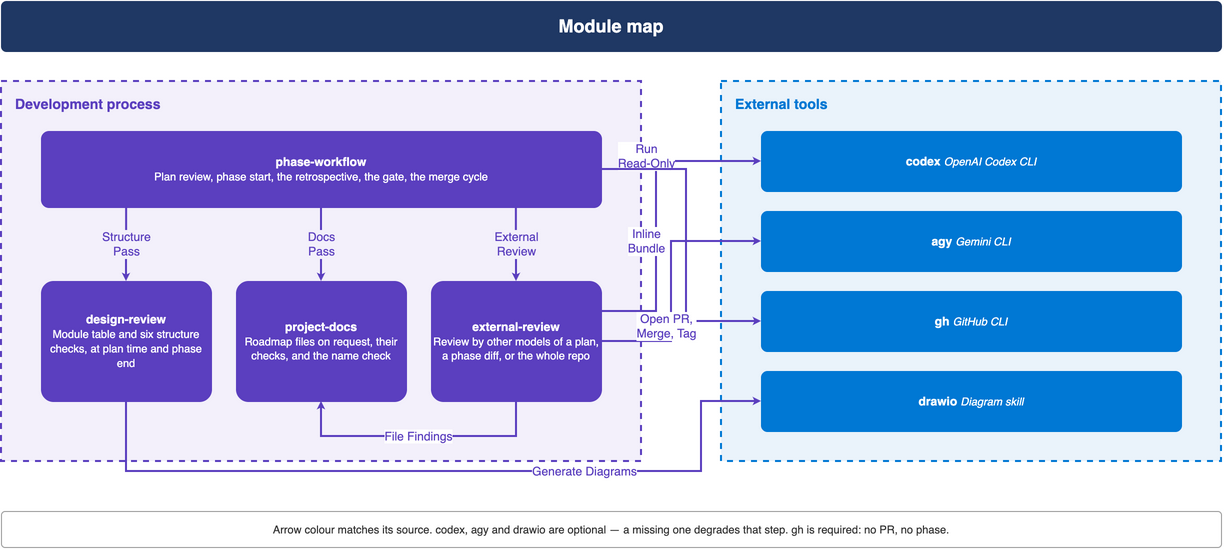
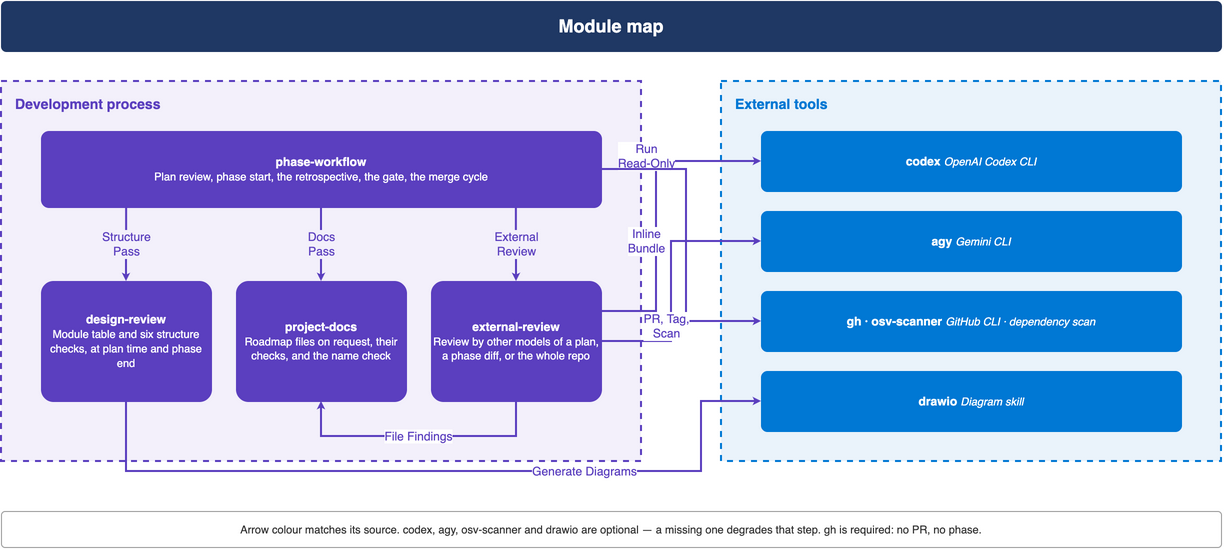
Tests that can fail, docs, and three filed issues from external review pass 1
- Tests (Codex 28–30, 34; Gemini 8): the Argon test gives Argon a free slot
  beside an unlisted family that sorts before it; the --count-mid read-error
  test passes a readable file first and requires exit 1 naming the bad one;
  the fence markers the suites run must all be present; where_on_enh checks
  its write; the no-final-newline close test checks the entry left; a
  duplicate --root is gone; the gate test's comment says what it covers.
- Docs (Codex 19, 31, 32; Gemini 12): the dependency scan reruns when any
  dependency file or osv-scanner.toml changes, and names the commit it
  scanned; CHANGELOG states the origin check's exact contract; ARCHITECTURE
  and its diagram name osv-scanner, phase-record.py, bats_assertions.py and
  the new suites.
- Filed KI-76 (loose error classes in preflight), KI-77 (a root lockfile
  covers every manifest below it) and KI-78 (index rows not bound to their
  section).

Mutation after commit: Argon listed fourth; --count-mid printing after a failed read; a marker removed

Changed region(s): [[0.1863, 0.9582, 0.8072, 0.9891], [0.683, 0.5564, 0.9003, 0.6182], [0.4967, 0.5564, 0.5899, 0.6182]]

diff --git a/docs/build_architecture.py b/docs/build_architecture.py
@@ -608,7 +608,7 @@ review = box(
 # --------------------------------------------------------------------------
 codex = box(800, 150, 420, 60, "<b>codex</b> " + sub("OpenAI Codex CLI"), fill=EXTERNAL)
 agy = box(800, 230, 420, 60, "<b>agy</b> " + sub("Gemini CLI"), fill=EXTERNAL)
-gh = box(800, 310, 420, 60, "<b>gh</b> " + sub("GitHub CLI"), fill=EXTERNAL)
+gh = box(800, 310, 420, 60, "<b>gh</b> · <b>osv-scanner</b> " + sub("GitHub CLI · dependency scan"), fill=EXTERNAL)
 drawio = box(800, 390, 420, 60, "<b>drawio</b> " + sub("Diagram skill"), fill=EXTERNAL)
 
 # --------------------------------------------------------------------------
@@ -700,7 +700,7 @@ edge(
     phase,
     gh,
     color=PROCESS,
-    label="Open PR,<div>Merge, Tag</div>",
+    label="PR, Tag,<div>Scan</div>",
     waypoints=[(725, 188), (725, 340)],
     exitX=1,
     exitY=0.5,
@@ -733,7 +733,7 @@ box(
     W - 80,
     36,
     desc(
-        "Arrow colour matches its source. codex, agy and drawio are optional — a "
+        "Arrow colour matches its source. codex, agy, osv-scanner and drawio are optional — a "
         "missing one degrades that step. gh is required: no PR, no phase."
     ),
     fill="#ffffff",

diff --git a/tests/test_skill_text.py b/tests/test_skill_text.py
@@ -77,6 +77,21 @@ class ZshTrapLintTest(unittest.TestCase):
 
 
 class FenceMarkerTest(unittest.TestCase):
+    # The fences the suites run; a missing marker would leave its tests selecting nothing.
+    REQUIRED = {
+        "external-review": {"ladder-wrappers", "discovery", "codex-loop", "gemini-loop", "probe", "failure-probe"},
+        "phase-workflow": {"first-push", "after-review", "record-check", "gate", "publish-record", "release-tag",
+                           "branch-cleanup", "prune", "mid-scan", "dependency-scan"},
+        "project-docs": {"roadmap-close"},
+    }
+
+    def test_required_markers_are_present(self):
+        # Fails if a fence the suites run loses its marker.
+        for skill, names in self.REQUIRED.items():
+            text = (ROOT / "skills" / skill / "SKILL.md").read_text()
+            found = set(re.findall(r"^\s*# fence: (\S+)$", text, re.M))
+            self.assertEqual(names - found, set(), skill)
+
     def test_each_marker_names_one_fence(self):
         # Fails if two fences share a marker, so a test could run the wrong one.
         for p in SKILLS:

diff --git a/docs/ARCHITECTURE.md b/docs/ARCHITECTURE.md
@@ -7,8 +7,9 @@ already shipped is in [CHANGELOG.md](../CHANGELOG.md).
 
 A plugin of four agent skills. Each exposes a `SKILL.md` that the agent reads and follows.
 Shell helpers implement review capture, reviewer preflight, mutation restoration and release
-checks. Python helpers rank the reviewer models, handle reviewer deadlines, set up and edit
-roadmap files, check the names docs mention, and run the design-review test tooling.
+checks. Python helpers rank the reviewer models, handle reviewer deadlines, read the phase
+record, scan dependencies with `osv-scanner`, set up and edit roadmap files, check the names docs
+mention, and run the design-review test tooling.
 `docs/build_architecture.py` generates the module diagram.
 
 There is no application entry point. A module here is a skill directory, with an invocation as
@@ -32,7 +33,7 @@ what sits at the bottom changes when someone else ships a new CLI.
 
 | Unit | Responsibility | Interface | Depends on |
 | --- | --- | --- | --- |
-| `phase-workflow` | Run a phase from plan review to merge | the `phase-workflow` skill; `phase-record.py`, `dependency-scan.py`, `publish-release.sh`, `mutation-restore.sh` | `design-review`, `project-docs`, `external-review`, `gh`, `osv-scanner` |
+| `phase-workflow` | Run a phase from plan review to merge | the `phase-workflow` skill; `phase-record.py`, `dependency-scan.py`, `publish-release.sh`, `mutation-restore.sh`, `bats_assertions.py` | `design-review`, `project-docs`, `external-review`, `gh`, `osv-scanner` |
 | `project-docs` | Keep a project's docs by tense, its roadmap files on request, and the name check | the `project-docs` skill; `roadmap.py`, `name_check.py` | `git` |
 | `design-review` | Decide structure at plan time and re-check it at phase end | the `design-review` skill, `plan` or `phase` mode | `drawio` skill |
 | `external-review` | Get a review from other models of a plan, a phase diff or the repo | the `external-review` skill, `plan`, `phase` or `repo` mode | `project-docs`, `codex`, `agy` |
@@ -79,10 +80,10 @@ The suites run against scratch repositories and temporary directories:
 | Skill | Executable checks |
 | --- | --- |
 | `external-review` | bundle capture, pruned export, documented Codex invocation, preflight, both model ladders |
-| `phase-workflow` | mutation restoration, release checks, documented release and cleanup commands, bats assertion enumeration |
+| `phase-workflow` | mutation restoration, release checks, documented release, gate and cleanup commands, phase-record parsing, dependency scan against recorded `osv-scanner` answers, bats assertion enumeration |
 | `project-docs` | roadmap set-up, edits, rating scales and reference verification; the name check |
 | `design-review` | transcript handling, fixture evaluation, Results writer, rollup tooling |
-| repo | the plugin name appears only in the manifests, README, CHANGELOG and phase record; nothing names the roadmap machinery's old paths |
+| repo | the plugin name appears only in the manifests, README, CHANGELOG and phase record; nothing names the roadmap machinery's old paths; the release test runs when its file runs directly; skill text holds no argument placeholders or zsh traps, and every fence a suite runs is marked |
 
 Run them with:
 

diff --git a/skills/phase-workflow/SKILL.md b/skills/phase-workflow/SKILL.md
@@ -146,7 +146,7 @@ The plan the user sees is always the **revised** one. Reviewing after approval i
      python3 "$CLAUDE_PLUGIN_ROOT/skills/phase-workflow/dependency-scan.py" --root .
      ```
 
-     It reads only the committed lockfiles, with `osv-scanner`, and sends package names and versions (never source) to the OSV database; a private package name can still identify an internal service, so pass `--offline` with a downloaded database where that matters. Exit 0 is clean or nothing to scan, 1 is findings, 3 is a coverage gap (a manifest with no lockfile, a file with no packages, an unpinned requirement), and 2 is a scanner that is missing or failed. Each finding and gap joins the review record like any other finding: fixed (an upgrade, with a test where behaviour changes), filed, or accepted with a reason. A missing scanner is reported like a missing review CLI and never blocks the gate. Run it again before the gate if any lockfile changed after it ran. Change it in `dependency-scan.py` and verify it with `tests/dependency-scan.bats`.
+     It reads only the committed lockfiles, with `osv-scanner`, and sends package names and versions (never source) to the OSV database; a private package name can still identify an internal service, so pass `--offline` with a downloaded database where that matters. Exit 0 is clean or nothing to scan, 1 is findings, 3 is a coverage gap (a manifest with no lockfile, a file with no packages, an unpinned requirement), and 2 is a scanner that is missing or failed. Each finding and gap joins the review record like any other finding: fixed (an upgrade, with a test where behaviour changes), filed, or accepted with a reason. A missing scanner is reported like a missing review CLI and never blocks the gate. Run it again before the gate if any dependency file or `osv-scanner.toml` changed after it ran, and say which commit it scanned: online advisories change over time. Change it in `dependency-scan.py` and verify it with `tests/dependency-scan.bats`.
    - **`/security-review` last**: Claude Code's built-in review of the branch's committed changes against the default branch, so it reads what `/simplify` and `/code-review` left. It runs only when the session's own working directory is inside the repository; a session started elsewhere, such as one driving a worktree under another folder, cannot run it. Where it is unavailable or fails, say so in the step's artifact; the external review's security item always runs, and the hand-off credits security coverage only to material an independent reviewer covered at step 5.
    - **That order, not the reverse.** Each pass must read the shape the one before it left: `design-review` moves responsibilities, `/simplify` rewrites, and `/code-review` is the correctness pass over everything that moved.
    - **Invoke it; do not restate its questions here.** The rubric lives in `design-review`; a second copy is a second edit site. Where it says to file a finding it does not fix, the rule at the top of this skill applies: through `project-docs` where the repository has the four roadmap files, otherwise in the PR's review record.

diff --git a/docs/KNOWN_ISSUES.md b/docs/KNOWN_ISSUES.md
@@ -375,6 +375,63 @@ Bound the rendered size of `str`, `repr` and formatting, and run each grade with
 
 ---
 
+<a id="ki-76"></a>
+
+## KI-76 — the probe's error classes still match loose substrings
+
+**Severity:** Medium
+**Likelihood:** Rare
+**Where:** [preflight.sh](../skills/external-review/preflight.sh) — `classify_error() {`
+
+### What happens
+
+`classify_error` reads any `is not available` as a model refusal and any `turn in progress`
+as a timeout, wherever it appears in stderr. A refusal from another service, or a successful probe
+whose stderr mentions a turn, is misread, and the Codex loop's confirming probe inherits the
+error.
+
+### Example scenario
+
+A probe whose stderr says a proxy "is not available" confirms the model unavailable, and the
+review moves to a weaker rung.
+
+### Notes for a fix
+
+Match the deadline runner's own diagnostic and each CLI's model-refusal line, and exercise the
+real classifier in one downshift test.
+
+**Source:** gpt-6.2-astra:high — phase review pass 1, dependable-helpers phase, 2026-11-23.
+
+---
+
+<a id="ki-77"></a>
+
+## KI-77 — a root lockfile covers every manifest below it
+
+**Severity:** Medium
+**Likelihood:** Rare
+**Where:** [dependency-scan.py](../skills/phase-workflow/dependency-scan.py) — `declares dependencies and has no lockfile`
+
+### What happens
+
+A manifest counts as covered when its ecosystem's lockfile sits in its folder or any folder
+above it. An independent project nested under a repository with a root lockfile is then never
+reported, though nothing locks its versions.
+
+### Example scenario
+
+`tools/web/package.json` declares dependencies and has no lockfile; the root
+`package-lock.json` belongs to another app. The scan reports nothing missing.
+
+### Notes for a fix
+
+Decide coverage from workspace membership (npm and pnpm workspaces, Cargo and uv workspaces) or
+the lockfile's own contents, not from folder position.
+
+**Source:** gpt-6.2-astra:high — phase review pass 1, dependable-helpers phase, 2026-11-23.
+
+---
+
 <a id="ki-44"></a>
 
 ## KI-44 — a stale dispatch log gives a misleading replacement message
@@ -400,3 +457,28 @@ Name both agent IDs in the message and say which command brings the log and the 
 in line.
 
 **Source:** claude-opus-5 — adversarial code review of the overnight QC passes, 2026-09-14.
+
+---
+
+<a id="ki-78"></a>
+
+## KI-78 — index rows are not bound to their section
+
+**Severity:** Low
+**Likelihood:** Rare
+**Where:** [roadmap.py](../skills/project-docs/roadmap.py) — `def index_rows(`
+
+### What happens
+
+`index_rows` finds a KI row anywhere in ROADMAP.md, so a known-issue row under the Enhancements
+heading reconciles.
+
+### Example scenario
+
+A KI row pasted into the Enhancements table passes `check`.
+
+### Notes for a fix
+
+Read rows per section, and refuse a row whose prefix does not belong to its section's table.
+
+**Source:** gpt-6.2-astra:high — phase review pass 1, dependable-helpers phase, 2026-11-23.

diff --git a/CHANGELOG.md b/CHANGELOG.md
@@ -37,9 +37,12 @@ here — the plugin manifest's version is the only record of them.
   checks the first table's `REPO`, `PR` and `Release`, so a companion table, a padded row or a
   large record no longer misleads it. The first push refuses a record inherited unchanged from
   the default branch. The review record reaches the PR description only at the gate's head.
-- **The origin check is an allow-list (KI-70).** It accepts ssh, https, scp-style and local-path
-  remotes, refuses every transport helper, unlisted scheme and option-shaped URL, and decides with
-  shell patterns, so no external command can fail open. A push-URL listing that fails refuses.
+- **The origin check is an allow-list (KI-70).** It accepts `ssh://`, `git+ssh://`,
+  `ssh+git://` and `https://` in lower case, the scp form and an absolute local path without
+  spaces; it refuses every transport helper, any other scheme or spelling, an option-shaped URL,
+  a `%`-escape in a user part, a configured `remote.origin.vcs`, and an ssh URL holding an IPv6
+  literal. It decides with shell patterns, so no external command can fail open, and the push
+  list must be exactly the approved URL.
 - **Branch cleanup reports every retained branch (ENH-29)** before it exits, rather than
   stopping at the first.
 - **The post-review gate check sees both sides of a rename and pins one head (KI-62).** A file

diff --git a/docs/ROADMAP.md b/docs/ROADMAP.md
@@ -53,7 +53,10 @@ Most severe first, and within a severity the most likely first. Both scales and 
 | [KI-39](KNOWN_ISSUES.md#ki-39) | `print` with an f-string argument still hides later guards | Likely | Medium |
 | [KI-51](KNOWN_ISSUES.md#ki-51) | Rejected grading attempts are not retained | Likely | Medium |
 | [KI-41](KNOWN_ISSUES.md#ki-41) | Converting a large sequence to text has no size bound | Rare | Medium |
+| [KI-76](KNOWN_ISSUES.md#ki-76) | The probe's error classes still match loose substrings | Rare | Medium |
+| [KI-77](KNOWN_ISSUES.md#ki-77) | A root lockfile covers every manifest below it | Rare | Medium |
 | [KI-44](KNOWN_ISSUES.md#ki-44) | A stale dispatch log gives a misleading replacement message | Rare | Low |
+| [KI-78](KNOWN_ISSUES.md#ki-78) | Index rows are not bound to their section | Rare | Low |
 
 ## Enhancements
 
